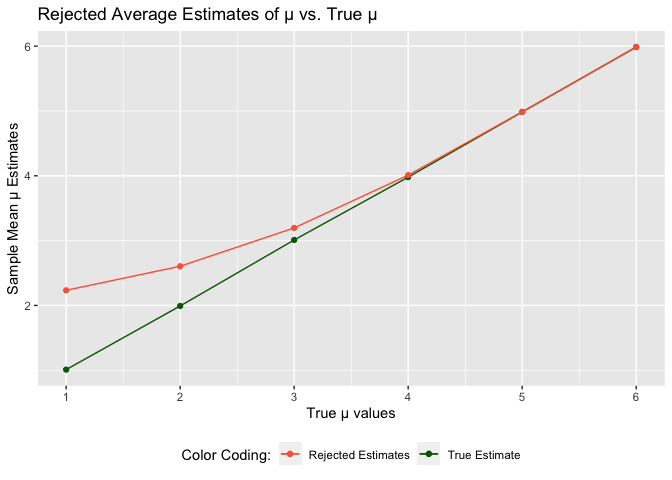
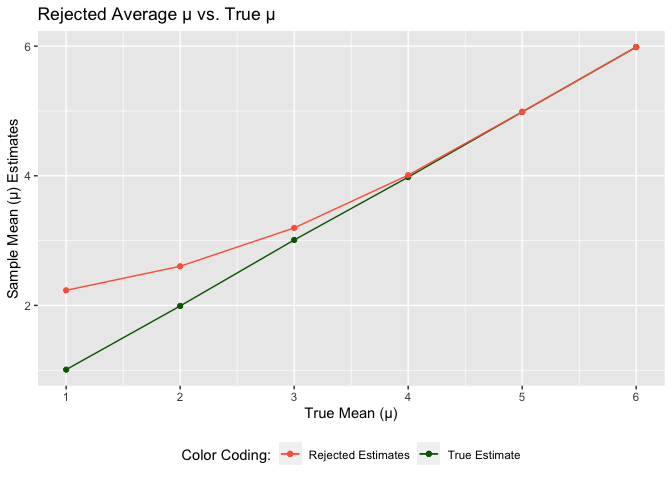
q3 plot 2 comments and formatting

diff --git a/p8105_hw5_wz2630.md b/p8105_hw5_wz2630.md
@@ -64,8 +64,7 @@ spaghetti_plot =
   ggplot(aes(week, value, color = subject_id)) + 
   geom_line() + 
   facet_wrap(~arm) + 
-  theme(legend.position = "bottom") +
-  labs(x = 'Week', y = 'Observation', title = 'Spaghetti Plot', color = "Subject ID")
+  labs(x = 'Week', y = 'Value', title = 'Spaghetti Plot', color = "Subject ID")
 
 spaghetti_plot
 ```
@@ -74,11 +73,12 @@ spaghetti_plot
 
 **Comments:**
 
-Since we are asked to compare between the 2 groups, I applied facet_wrap
-to better visualize it. The control arm have overall lower values
-throughout the 8 weeks as compared to the experimental arm which has an
-overall increasing trend. The control arm has much more variability and
-fluctuations throughout the 8 weeks with no apparent trend.
+Since we are asked to compare between the 2 arms (control and
+experimental), I applied facet_wrap to better visualize it. The control
+arm have overall lower values throughout the 8 weeks as compared to the
+experimental arm which has an overall increasing trend. The control arm
+also has much more variability and fluctuations throughout the 8 weeks
+with no apparent trend.
 
 ## Problem 3
 
@@ -87,7 +87,7 @@ Simulation to explore power in a one-sample t-test
 - Fix n=30
 - Fix σ=5
 
-**Simulation 1**
+**Simulation**
 
 ``` r
 set.seed(123)
@@ -115,7 +115,7 @@ t_test_result =
   bind_rows(output)
 ```
 
-**Simulation 2** Repeat the above for μ = {1,2,3,4,5,6}
+Repeat the above for μ = {1,2,3,4,5,6}
 
 ``` r
 more_ttest_sim = 
@@ -129,23 +129,30 @@ more_ttest_sim =
 
 Make a plot showing the proportion of times the null was rejected (the
 power of the test) on the y axis and the true value of μ on the x axis.
-Describe the association between effect size and power.
 
 ``` r
 plot1 = 
   more_ttest_sim |> 
     group_by(mu_vals) |> 
-    summarize(rejection_prob = sum(p_value < 0.05) / 5000) |> 
-    ggplot(aes(x = mu_vals, y = rejection_prob)) +
+    summarize(rejected = sum(p_value < 0.05) / 5000) |> 
+    ggplot(aes(x = mu_vals, y = rejected)) +
     geom_point() + 
     geom_line() + 
-    labs(x = 'μ values', y = 'Rejection Probability', title = 'Proportion of times the null was rejected') + 
+    labs(x = 'True Mean (μ)', y = 'Rejection Probability', title = 'Proportion of times the null was rejected') + 
     scale_x_continuous(limits = c(1, 6), breaks = seq(1, 6, 1))
 
 plot1
 ```
 
 ![](p8105_hw5_wz2630_files/figure-gfm/unnamed-chunk-7-1.png)<!-- -->
+
+**Describe the association between effect size and power:**
+
+The graph demonstrates a positive association – as true mu values
+increase, the proportion of times the null is rejected (power) also
+increase. This is because a larger effect size is associated with
+increased statistical power, making it easier to detect a statistically
+significant difference.
 
 **Plot 2**
 
@@ -182,8 +189,8 @@ plot2 =
             aes(x = mu_vals, y = sample_mean_estimates, color = "Rejected Estimates")) + 
   geom_point(data = estimates_rejection_df, 
              aes(x = mu_vals, y = sample_mean_estimates, color = "Rejected Estimates")) + 
-  labs(x = 'True μ values', y = 'Sample Mean μ Estimates', 
-       title = 'Rejected Average Estimates of μ vs. True μ', color = "Color Coding:") + 
+  labs(x = 'True Mean (μ)', y = 'Sample Mean (μ) Estimates', 
+       title = 'Rejected Average μ vs. True μ', color = "Color Coding:") + 
   scale_color_manual(values = c("Rejected Estimates" = "tomato", "True Estimate" = "darkgreen")) + 
   scale_x_continuous(limits = c(1, 6), breaks = seq(1, 6, 1)) + 
   theme(legend.position = "bottom")
